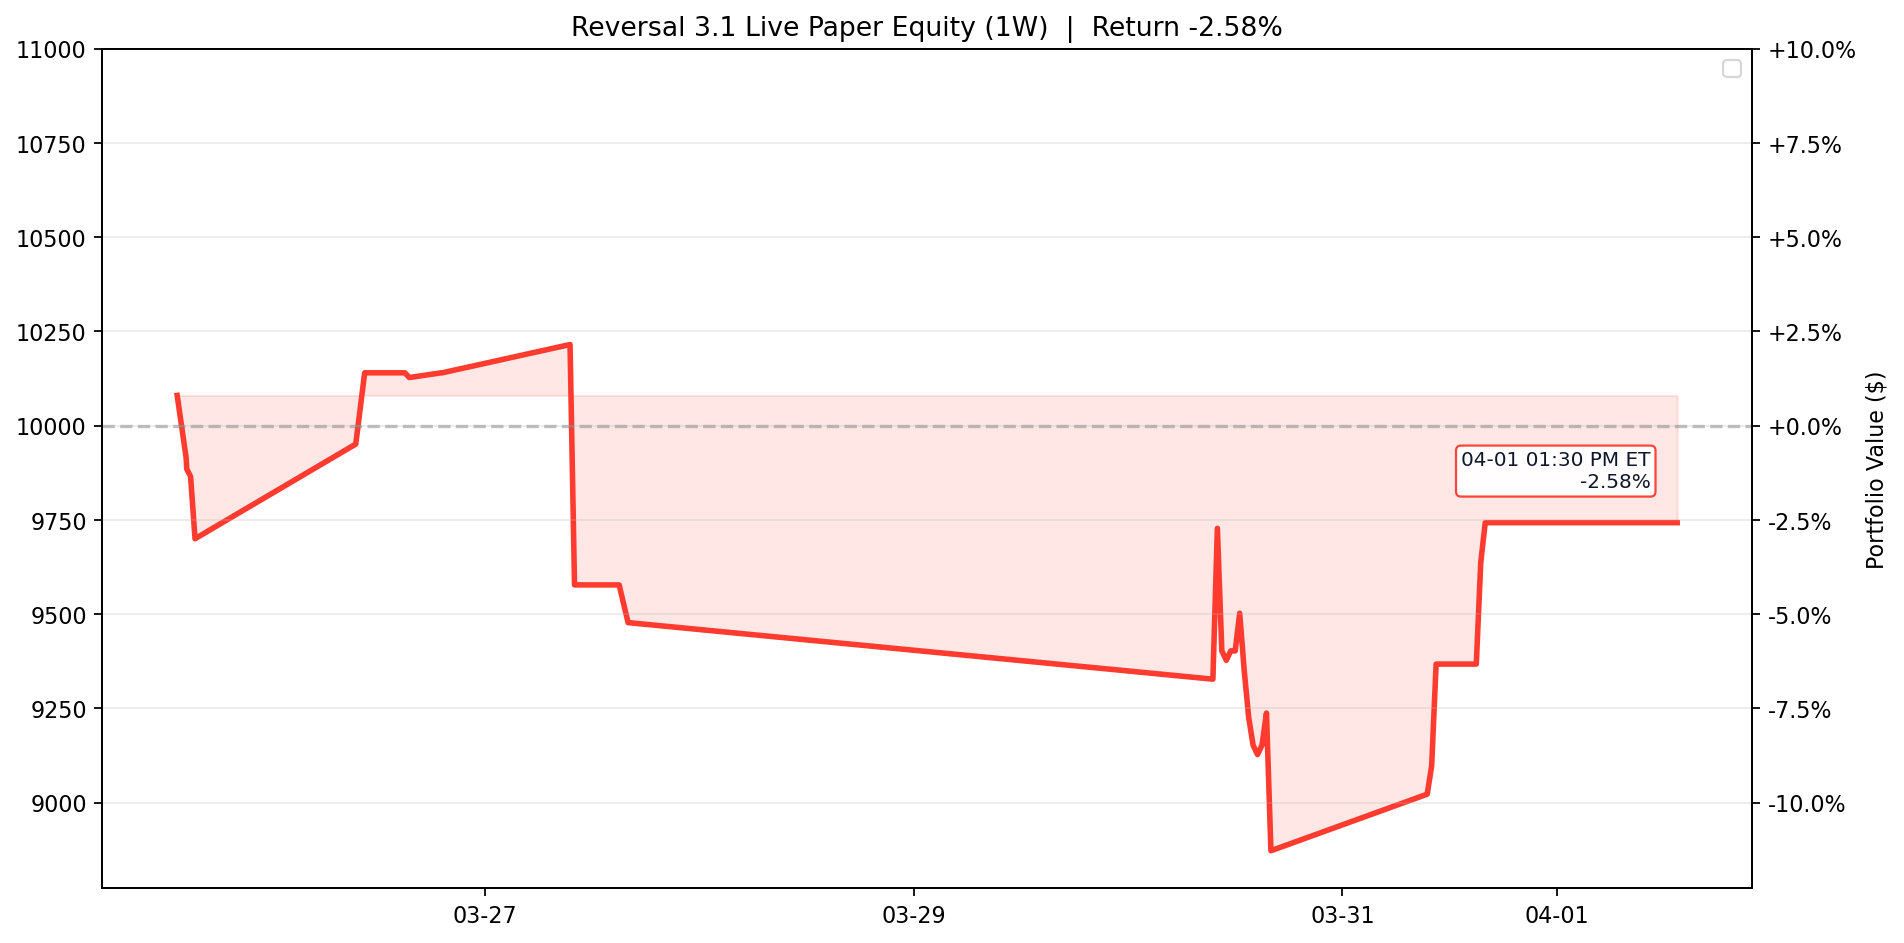
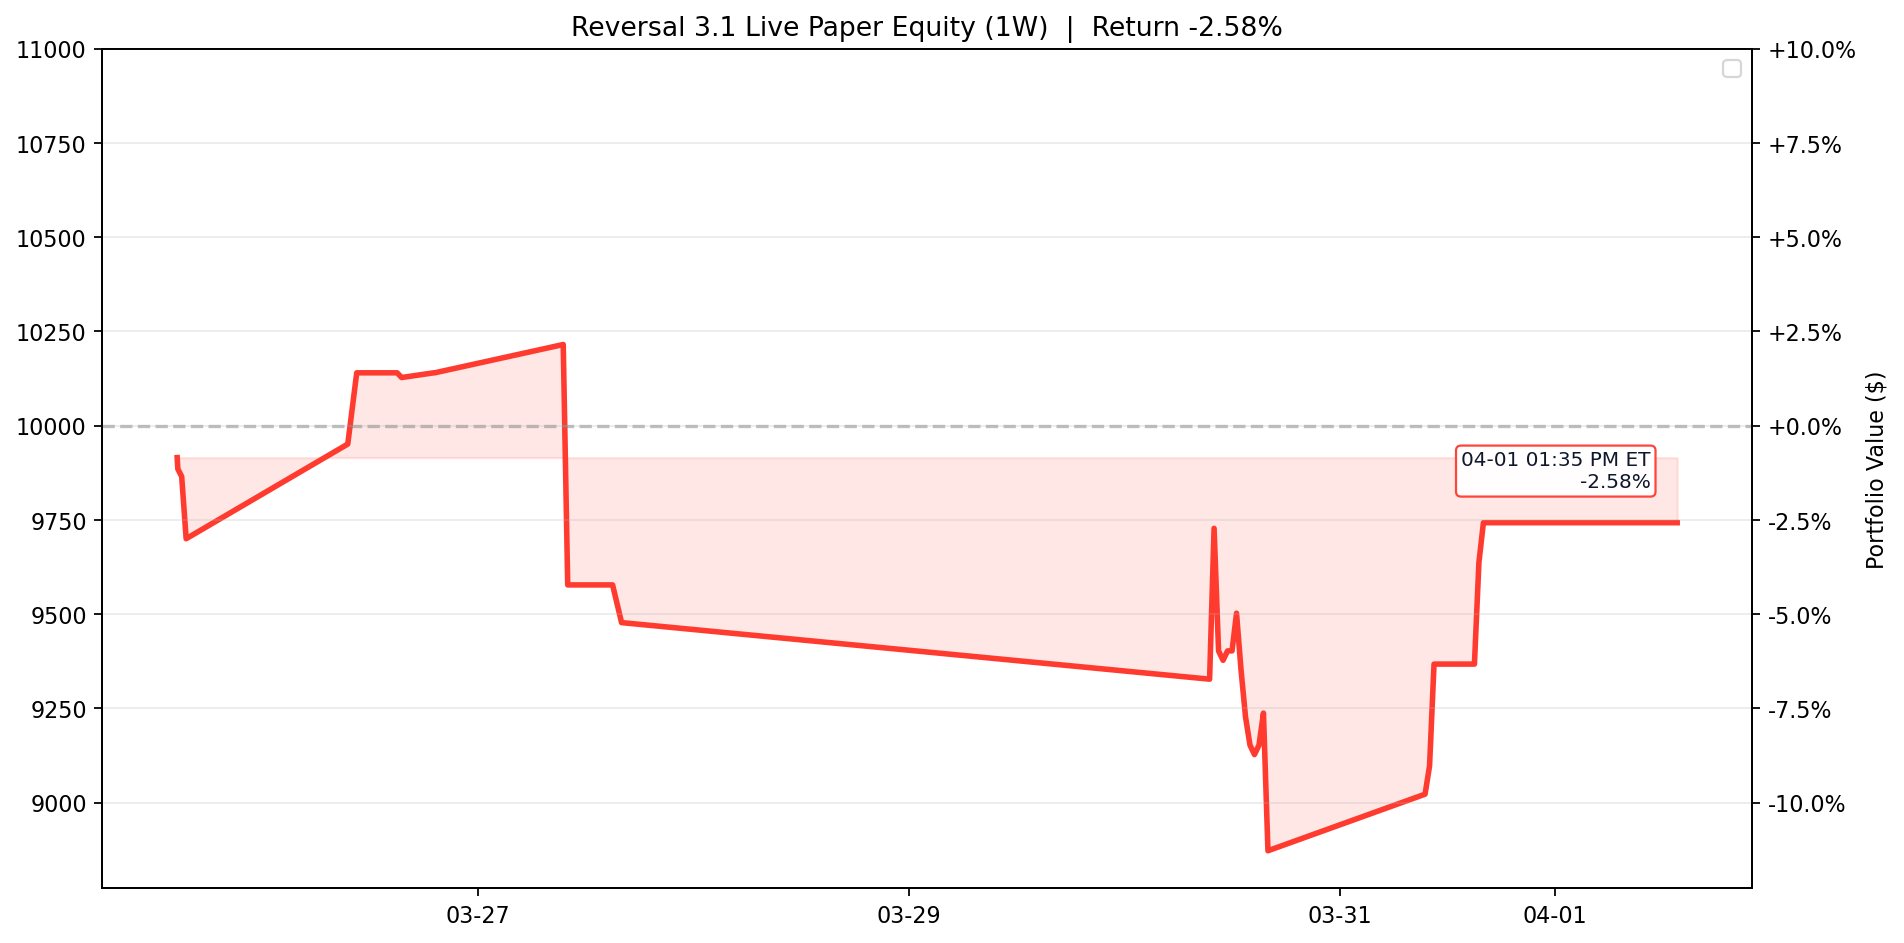
Update Reversal 3.1 live paper test 2026-04-01 13:35 ET

diff --git a/results/reversal_3_1_live/README.md b/results/reversal_3_1_live/README.md
@@ -1,6 +1,6 @@
 # Reversal 3.1 Live Paper Test
 
-Last updated (ET): `2026-04-01 13:30:00 EDT`
+Last updated (ET): `2026-04-01 13:35:05 EDT`
 Last processed slot: `manage_1330`
 
 ## Active Configuration
@@ -37,24 +37,25 @@ _None_
 
 ```text
 ticker  success_rate_%  matched_signals  current_drop_%  target_rebound_$  target_price  rolling_sigma_20d_%  call_candidate
-   LIN           88.89               27            0.54              1.88        494.96                19.67            True
-   EXC           87.50               16            0.81              0.28         48.90                21.40            True
-  CHTR           86.11               36            0.71              1.08        215.42                36.72            True
-   APP           85.37               41            0.83              2.32        397.00                76.97            True
- CMCSA           84.21               19            1.52              0.30         28.25                29.02            True
-   BKR           82.61               23            1.04              0.44         60.86                41.31            True
-  VRSK           82.35               17            2.08              2.77        188.54                31.84            True
-  MDLZ           81.82               11            1.14              0.46         57.44                24.77            True
-   PEP           80.95               21            0.55              0.60        155.03                18.57            True
-   ADP           80.00               25            0.63              0.90        202.79                25.48            True
-  FANG          100.00                1            5.02              6.94        194.81                24.73           False
-  NFLX           95.35               43            0.34              0.23         96.02                24.42           False
+   LIN           88.89               27            0.55              1.92        494.94                19.67            True
+   EXC           85.71               14            0.86              0.29         48.89                21.40            True
+ CMCSA           85.00               20            1.44              0.29         28.26                29.02            True
+   APP           83.78               37            1.12              3.11        396.67                76.97            True
+   BKR           81.82               22            1.24              0.53         60.82                41.31            True
+  MDLZ           81.82               11            1.09              0.44         57.45                24.77            True
+   ADP           80.00               25            0.65              0.93        202.78                25.48            True
+  FANG          100.00                1            5.15              7.14        194.73                24.73           False
+  NFLX           95.24               42            0.39              0.26         96.01                24.42           False
+  FTNT           93.88               49            0.16              0.09         81.68                30.40           False
+  COST           90.70               43            0.31              2.16        995.50                15.56           False
+  ORLY           89.80               49            0.15              0.10         92.27                22.81           False
 ```
 
 ## Recent Events
 
 ```text
                     timestamp_et        slot   event_type                          detail
+2026-04-01T13:35:05.876418-04:00 manage_1330 slot_skipped {"reason": "already_processed"}
 2026-04-01T13:30:00.896240-04:00 manage_1330 slot_skipped {"reason": "already_processed"}
 2026-04-01T13:25:00.881126-04:00 manage_1330 slot_skipped {"reason": "already_processed"}
 2026-04-01T13:10:05.888806-04:00 manage_1300 slot_skipped {"reason": "already_processed"}
@@ -64,7 +65,6 @@ ticker  success_rate_%  matched_signals  current_drop_%  target_rebound_$  targe
 2026-04-01T12:40:05.874647-04:00 manage_1230 slot_skipped {"reason": "already_processed"}
 2026-04-01T12:35:05.909248-04:00 manage_1230 slot_skipped {"reason": "already_processed"}
 2026-04-01T12:30:00.886617-04:00 manage_1230 slot_skipped {"reason": "already_processed"}
-2026-04-01T12:25:05.886998-04:00 manage_1230 slot_skipped {"reason": "already_processed"}
 ```
 
 ## Equity Curve (1W)

diff --git a/README.md b/README.md
@@ -3,7 +3,7 @@
 <!-- reversal-3.1-live:start -->
 ## Reversal 3.1 Live Paper Test
 
-- Last updated (ET): `2026-04-01 13:30:00 EDT`
+- Last updated (ET): `2026-04-01 13:35:05 EDT`
 - Equity: `$9,742.50` | Realized: `$-257.50` | Unrealized: `$0.00` | Open positions: `0`
 - Today closed trades: `0`
 - Current slot: `manage_1330`
